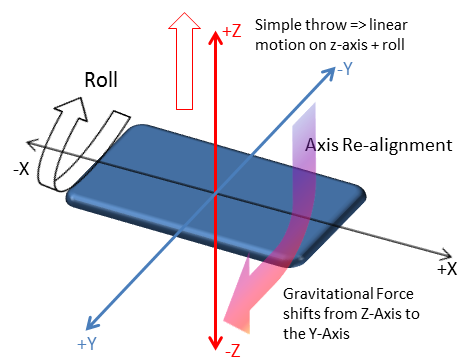
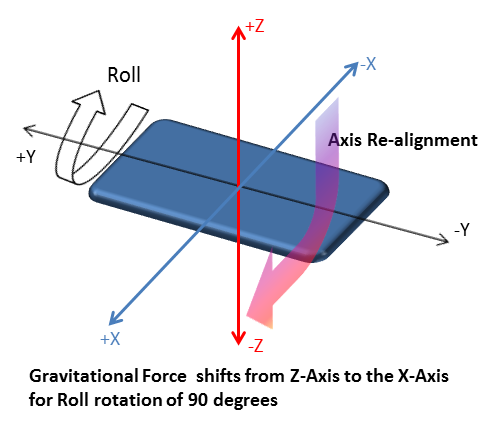
Updating preprocessing and aiding system documentation
- Added new equations for preprocessing and aiding system
- Changed formating for documentation.
- Updated diagrams for orientation and gravity.

diff --git a/src/sensor_fusion/design/documentation/sensor_fusion.htm b/src/sensor_fusion/design/documentation/sensor_fusion.htm
@@ -1,16 +1,17 @@
 <html>
 <head><title>Sensor Fusion for Tizen Sensor Framework</title></head>
 
-<h1>Introduction</h1>
+<h1><center>Sensor Fusion for Tizen Sensor Framework</center></h1>
+
+<h2>Introduction</h2>
 
 <p>Sensor Fusion is the process of combining the accelerometer,
-gyroscope, geo-magnetic sensor, GPS data and barometer in order to generate
-accurate virtual sensor outputs such as Orientation, Gravity, Linear
-Acceleration, Altitude, etc. Sensor Fusion is used for extracting
-individual virtual sensor components from composite sensor data and/or
-combining multiple sensor data to create new sensor component data while
-compensating for individual sensor errors. Ideally the following errors would
-have to be corrected during sensor fusion:-</p>
+gyroscope and geo-magnetic sensor in order to generate accurate virtual sensor
+outputs such as Orientation, Gravity, Linear Acceleration, etc. Sensor Fusion 
+is used for extracting individual virtual sensor components from composite
+sensor data and/or combining multiple sensor data to create new sensor component
+data while compensating for individual sensor errors. Ideally the following
+errors would have to be corrected during sensor fusion:-</p>
 
 <p>&nbsp;&nbsp;&nbsp;&nbsp;&nbsp;&nbsp;&nbsp;&nbsp;- Bias: Any non-zero sensor
 output when the input is zero</p>
@@ -30,7 +31,7 @@ mechanical lock-in</p>
 <p>&nbsp;&nbsp;&nbsp;&nbsp;&nbsp;&nbsp;&nbsp;&nbsp;- Quantization error: inherent
 in all digitized systems</p>
 
-<h1>Sensors Used for Sensor Fusion</h1>
+<h2>Sensors Used for Sensor Fusion</h2>
 
 <p>Accelerometer Sensor :- Accelerometer data is a combination of linear
 acceleration and gravity components. Applications would be interested in using
@@ -51,18 +52,7 @@ along Z axis to produce correct yaw measurement. Geo-Magnetic sensor along with
 GPS latitude-longitude measurements could be used to accurately estimate
 heading of the device.</p>
 
-<p>Barometer Sensor :- Measures atmospheric pressure. Height of the device from
-sea level could be measured based on change in atmospheric pressure at that height.
-Sensor Fusion could also be used to combine the altitude from the GPS data with
-height measured from the Barometer measurements and produce corrected altitude
-measurements. </p>
-
-<p>GPS Data :- Provides exact position in terms of latitude, longitude coordinates
-and altitude for the phone. Can be used along with barometer for producing
-corrected altitude measurements. Could be used along with Geo-magnetic sensor
-to determine the heading of a device.</p>
-
-<h1>Orientation Estimation</h1>
+<h2>Orientation Estimation</h2>
 
 <p><center></center></p>
 
@@ -73,7 +63,6 @@ to determine the heading of a device.</p>
 </center>
 </FIGURE>
 
-
 <FIGURE>
 <center>
 <img src="./diagram/block_diagram_orientation_estimation.png" width="40%"
@@ -83,6 +72,8 @@ Estimation.</FIGCAPTION>
 </center>
 </FIGURE>
 
+<h3>Preprocessing of Sensor Data</h3>
+
 <FIGURE>
 <center>
 <img src="./equation/equation_1.png" width="35%" height="5%">
@@ -91,7 +82,7 @@ Estimation.</FIGCAPTION>
 
 <FIGURE>
 <center>
-<img src="./equation/equation_2.png" width="35%" height="7%">
+<img src="./equation/equation_2.png" width="35%" height="6%">
 </center>
 </FIGURE>
 
@@ -113,14 +104,48 @@ Estimation.</FIGCAPTION>
 </center>
 </FIGURE>
 
-<h2>Driving System</h2>
+<FIGURE>
+<center>
+<img src="./equation/equation_6.png" width="35%" height="5%">
+</center>
+</FIGURE>
 
-<p>The gyroscope output data consists for angular rates for pitch, roll and yaw.
-Gyroscope angular rates are corrected for bias (both static bias and bias correction
-from Kalman filter) and noise using low pass filter. The Gyroscope angular rates are
-converted to Quaternions after scaling.</p>
 
-<h2>Aiding System</h2>
+<h3>Orientation Computation Based on Aiding System</h3>
+
+<FIGURE>
+<center>
+<img src="./equation/equation_7.png" width="35%" height="4%">
+</center>
+</FIGURE>
+
+<FIGURE>
+<center>
+<img src="./equation/equation_8.png" width="35%" height="4%">
+</center>
+</FIGURE>
+
+<FIGURE>
+<center>
+<img src="./equation/equation_9.png" width="35%" height="4%">
+</center>
+</FIGURE>
+
+<FIGURE>
+<center>
+<img src="./equation/equation_10.png" width="35%" height="4%">
+</center>
+</FIGURE>
+
+<FIGURE>
+<center>
+<img src="./equation/equation_11.png" width="35%" height="4%">
+</center>
+</FIGURE>
+
+
+<h3>Driving System</h3>
+
 
 <p>The accelerometer and geomagnetic sensor data are corrected
 for noise and compensated for static bias. Accelerometer is used to compute
@@ -128,7 +153,7 @@ tilt (pitch and roll). The geomagnetic sensor along with the computed tilt data
 is used compute yaw. The computed Euler angles (pitch, roll and yaw) are
 converted to quaternions.</p>
 
-<h2>Noise Covariance Computation</h2>
+<h3>Noise Covariance Computation</h3>
 
 <p>The process noise covariance (Q) is calculated by computing
 covariance of windowed block of driving system data. The measurement noise
@@ -136,7 +161,7 @@ covariance (R) is calculated by computing covariance of windowed block of aiding
 system data. The process and measurement covariance computed are to be used in
 Kalman filtering.</p>
 
-<h2>Kalman Filtering</h2>
+<h3>Kalman Filtering</h3>
 
 <FIGURE>
 <center>
@@ -152,7 +177,7 @@ Kalman filtering.</p>
 <p>,where the first term is the quaternion representation of the Euler angles
 error and the next three terms are the error in knowledge of bias errors.</p>
 
-<h1>Determination of Gravity</h1>
+<h3>Determination of Gravity</h3>
 <p>When a device is subjected to motion in Euclidean space, the 3D accelerometer
 data generated from the device is a combination of linear acceleration and gravity
 components which are a measure of linear and rotational motion respectively.The
@@ -193,7 +218,7 @@ given above, the values (GRx,GRy,GRz) are converted from (0,0,G) to (0,G,0) due 
 shift in the axis which experiences the gravitational field (G is measure of Earth's
 gravity).</p>
 
-<h1>Determination of Linear Acceleration</h1>
+<h2>Determination of Linear Acceleration</h2>
 
 <p>Linear Acceleration virtual sensor data provides the measure of the acceleration of
 a device after removing the Gravity components on the 3-axes. Accurate linear
